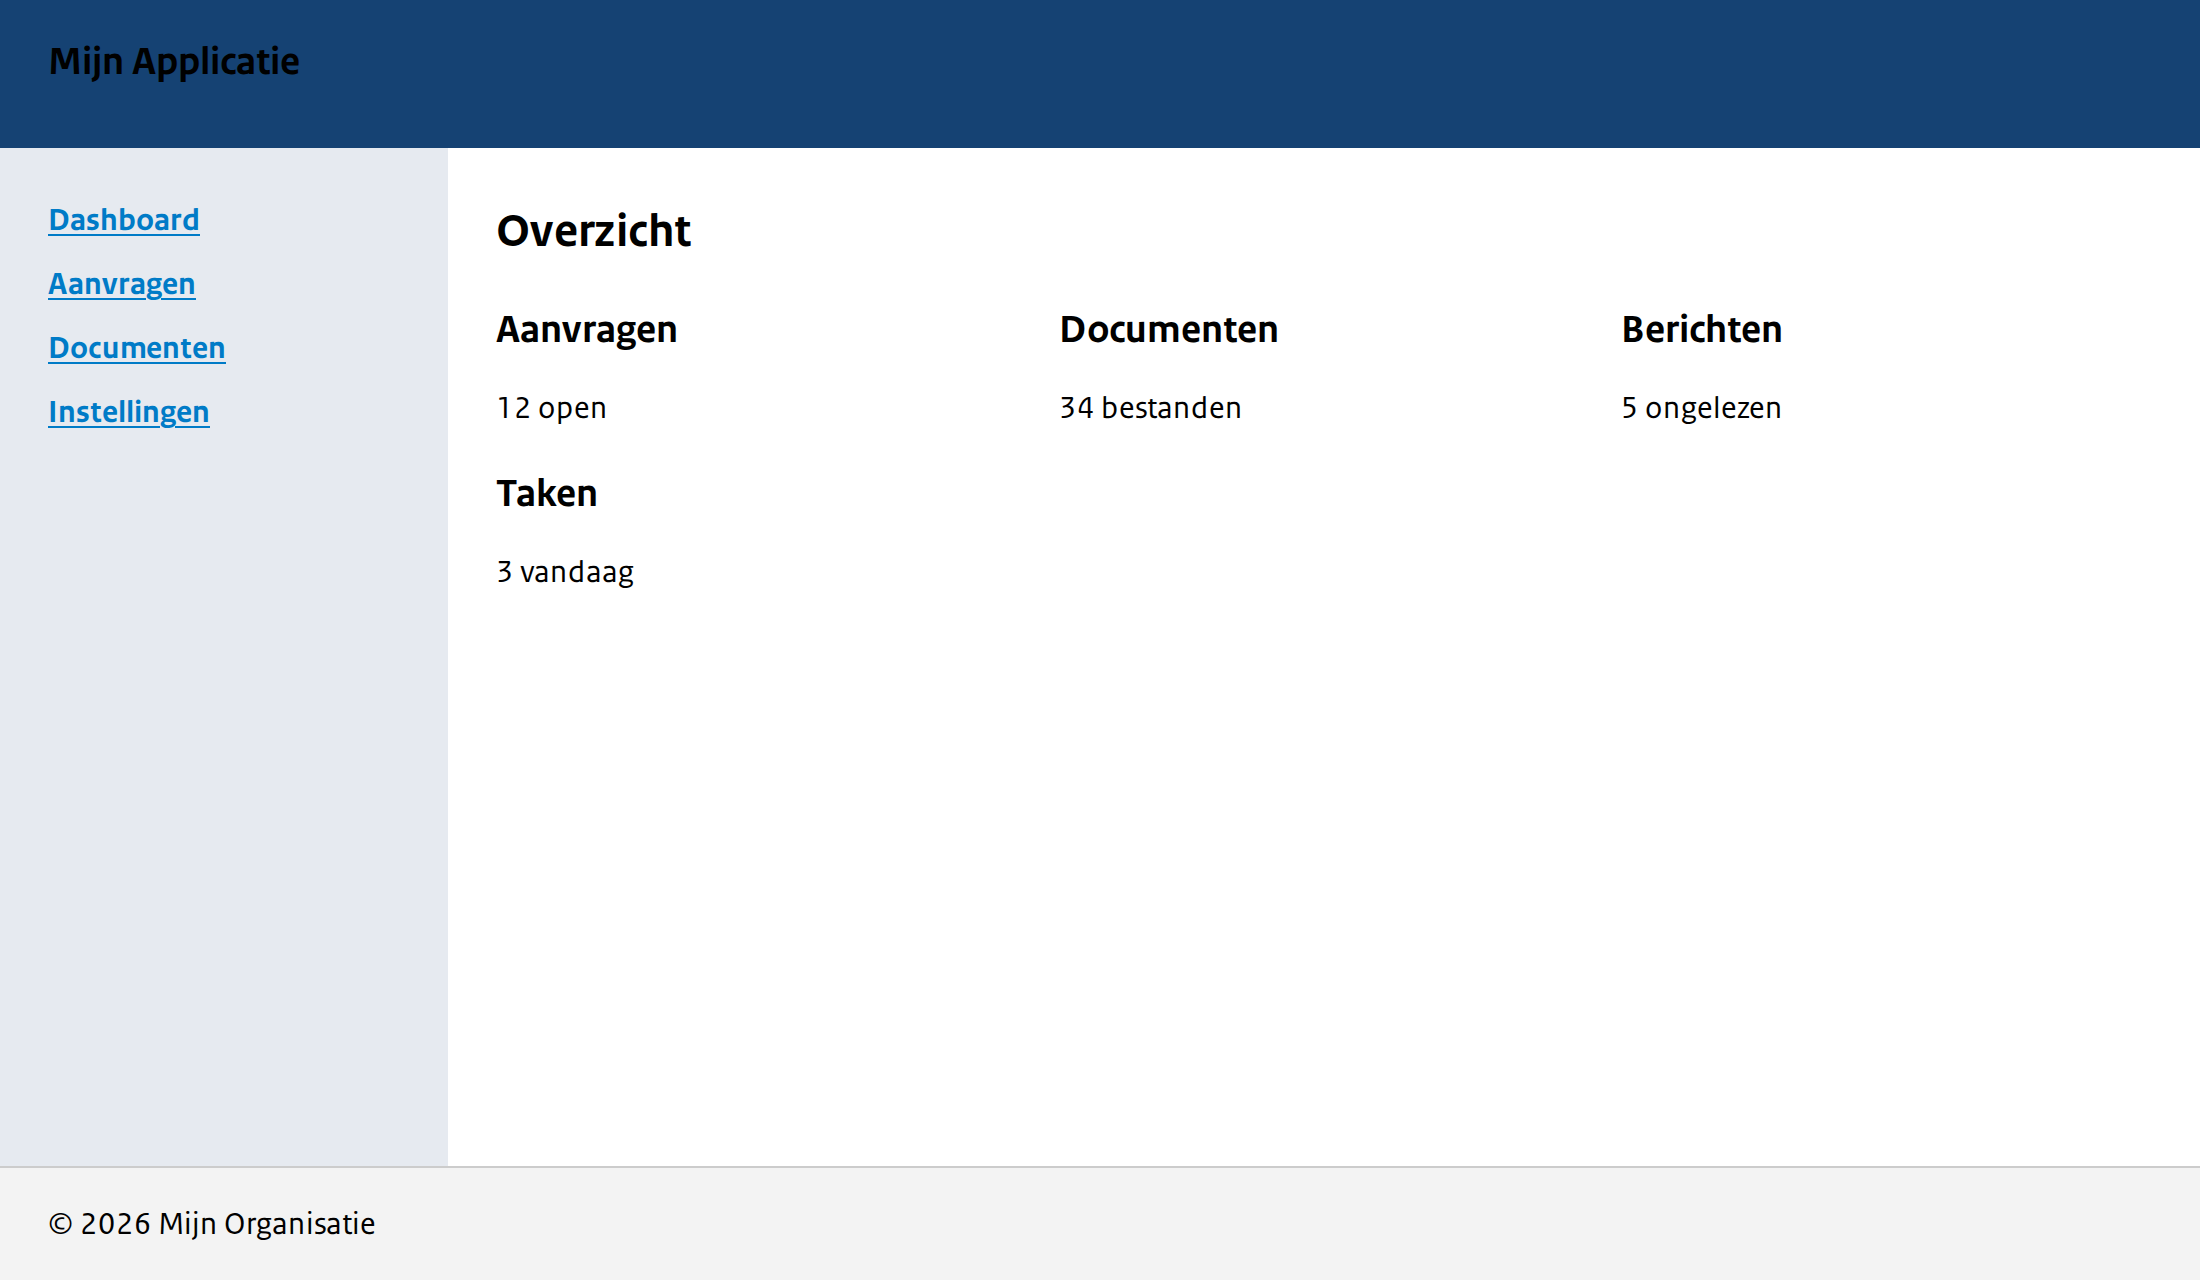
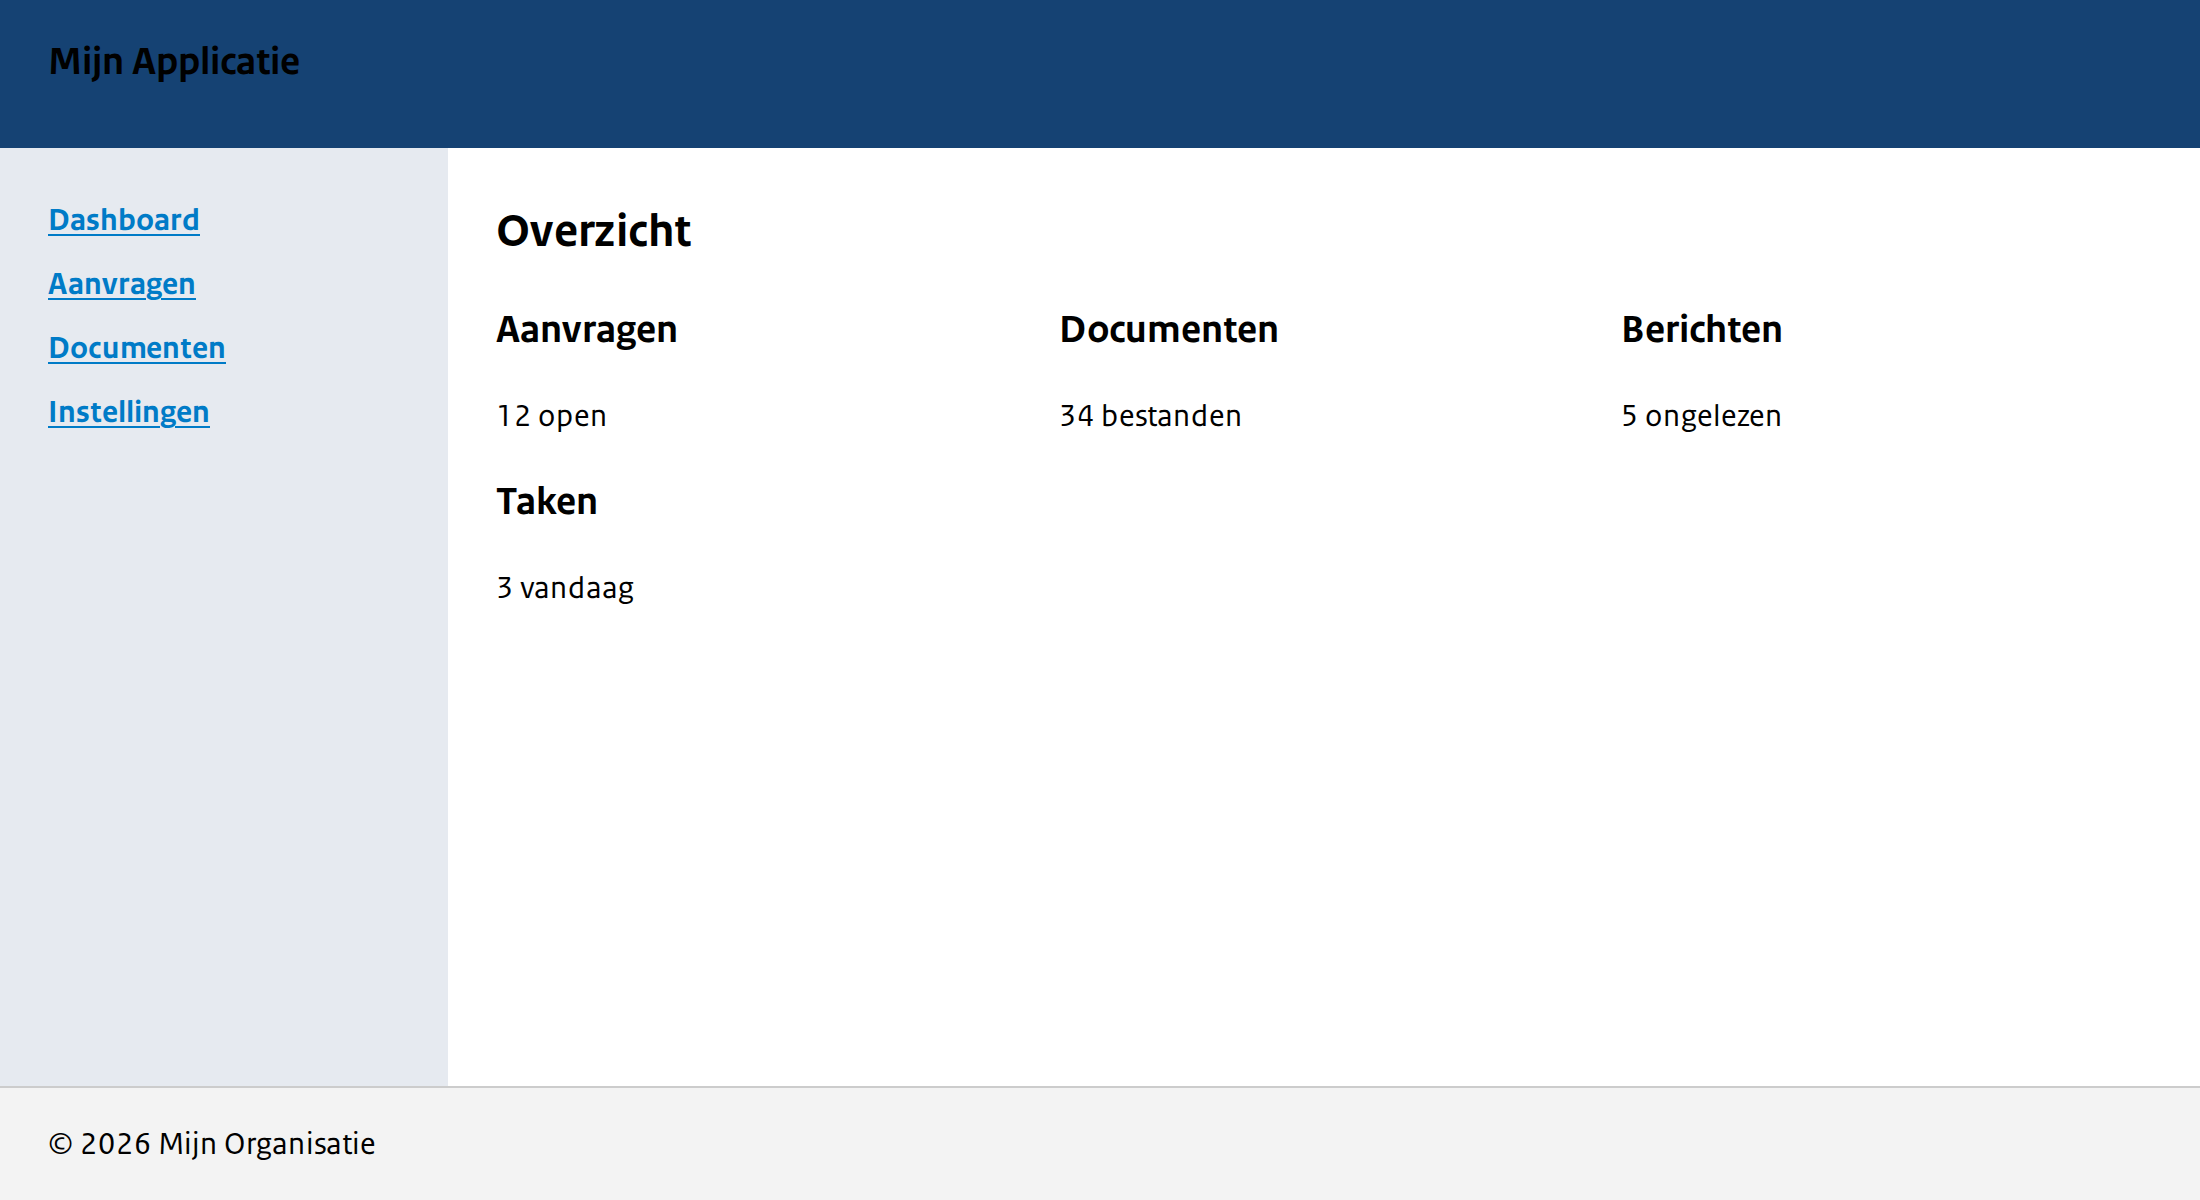
Fix card title-link styling + NLDD font context (from screenshot review)
Two fidelity issues spotted in screenshots:

- Card title links looked like default browser links: the linked title used a
  nonexistent rvo-card__link class (not in the CSS), so it fell back to the
  browser default. The RVO reference renders the linked title via the Link
  component -> use rvo-link. Now styled as a proper RVO link.

- NLDD app-shell rendered plain HTML in the browser-default serif while the NLDD
  web components used RijksSans. NLDD only applies its body font via
  'html:has(nldd-app-view) body', so without that wrapper ordinary content gets
  no font. serve.py now applies the RijksSans stack for --theme nldd (the NLDD
  root-context equivalent of RVO's rvo-theme). Also switched the app-shell demo
  content from RVO-only cards (which have no NLDD impl and 404 the template under
  NLDD) to cross-theme heading/paragraph/stack, so the shell demo renders in both
  themes. 2088 pass.

diff --git a/implementations/components/card.impl.ts b/implementations/components/card.impl.ts
@@ -138,7 +138,10 @@ export const cardImpl = defineImplementation({
                     element: "a",
                     when: { prop: "href" },
                     classes: [
-                      "rvo-card__link",
+                      // The RVO card renders its linked title via the Link
+                      // component (rvo-link); there is no rvo-card__link class,
+                      // so a bare one falls back to the default browser link.
+                      "rvo-link",
                       { prop: "full-card-link", class: "rvo-card__full-card-link" },
                     ],
                     attributes: [
@@ -208,7 +211,10 @@ export const cardImpl = defineImplementation({
                     element: "a",
                     when: { prop: "href" },
                     classes: [
-                      "rvo-card__link",
+                      // The RVO card renders its linked title via the Link
+                      // component (rvo-link); there is no rvo-card__link class,
+                      // so a bare one falls back to the default browser link.
+                      "rvo-link",
                       { prop: "full-card-link", class: "rvo-card__full-card-link" },
                     ],
                     attributes: [

diff --git a/tests/visual/fixtures/app-shell.html b/tests/visual/fixtures/app-shell.html
@@ -23,11 +23,14 @@
     </template>
 
     <c-heading type="h2">Overzicht</c-heading>
+    <!-- Cross-theme-safe content: heading/paragraph/button have both an RVO and
+         an NLDD implementation, so the shell demo renders in both themes. Cards
+         are RVO-only, so they are not used here. -->
     <c-auto-grid min="14rem" gap="1rem">
-      <c-card title="Aanvragen">12 open</c-card>
-      <c-card title="Documenten">34 bestanden</c-card>
-      <c-card title="Berichten">5 ongelezen</c-card>
-      <c-card title="Taken">3 vandaag</c-card>
+      <c-stack gap="0.25rem"><c-heading type="h3">Aanvragen</c-heading><c-paragraph no-spacing>12 open</c-paragraph></c-stack>
+      <c-stack gap="0.25rem"><c-heading type="h3">Documenten</c-heading><c-paragraph no-spacing>34 bestanden</c-paragraph></c-stack>
+      <c-stack gap="0.25rem"><c-heading type="h3">Berichten</c-heading><c-paragraph no-spacing>5 ongelezen</c-paragraph></c-stack>
+      <c-stack gap="0.25rem"><c-heading type="h3">Taken</c-heading><c-paragraph no-spacing>3 vandaag</c-paragraph></c-stack>
     </c-auto-grid>
 
     <template slot="footer">

diff --git a/tests/visual/serve.py b/tests/visual/serve.py
@@ -86,7 +86,15 @@ def _nldd_head() -> str:
         f'    <script type="module" src="/static/lotc/nldd/dist/{js["src"]}"></script>'
         for js in manifest.get("js", [])
     )
-    return f"{links}\n{scripts}"
+    # NLDD only applies its body font via `html:has(nldd-app-view) body`, so plain
+    # HTML content (not a self-styled web component) falls back to the browser
+    # default serif. Apply the RijksSans stack so ordinary content matches the
+    # NLDD components — the root-context equivalent of RVO's `rvo-theme` class.
+    font = (
+        "    <style>body { font-family: var(--primitives-font-family-sans-serif, "
+        "RijksSans, system-ui, sans-serif); }</style>"
+    )
+    return f"{links}\n{scripts}\n{font}"
 
 
 def _make_transform(theme: str) -> Callable[[str], str]:

diff --git a/python/tests/test_card_e2e.py b/python/tests/test_card_e2e.py
@@ -134,7 +134,10 @@ class TestCardLink:
         html = render('<c-card title="Click Me" href="/page"/>')
         norm = normalize_whitespace(html)
         assert '<a href="/page"' in norm
-        assert "rvo-card__link" in norm
+        # The linked title uses the RVO Link class (rvo-link), not a nonexistent
+        # rvo-card__link (which would fall back to a default browser link).
+        assert "rvo-link" in norm
+        assert "rvo-card__link" not in norm.replace("rvo-card__link-indicator", "")
         assert "Click Me" in norm
 
     def test_title_without_link(self, render):
